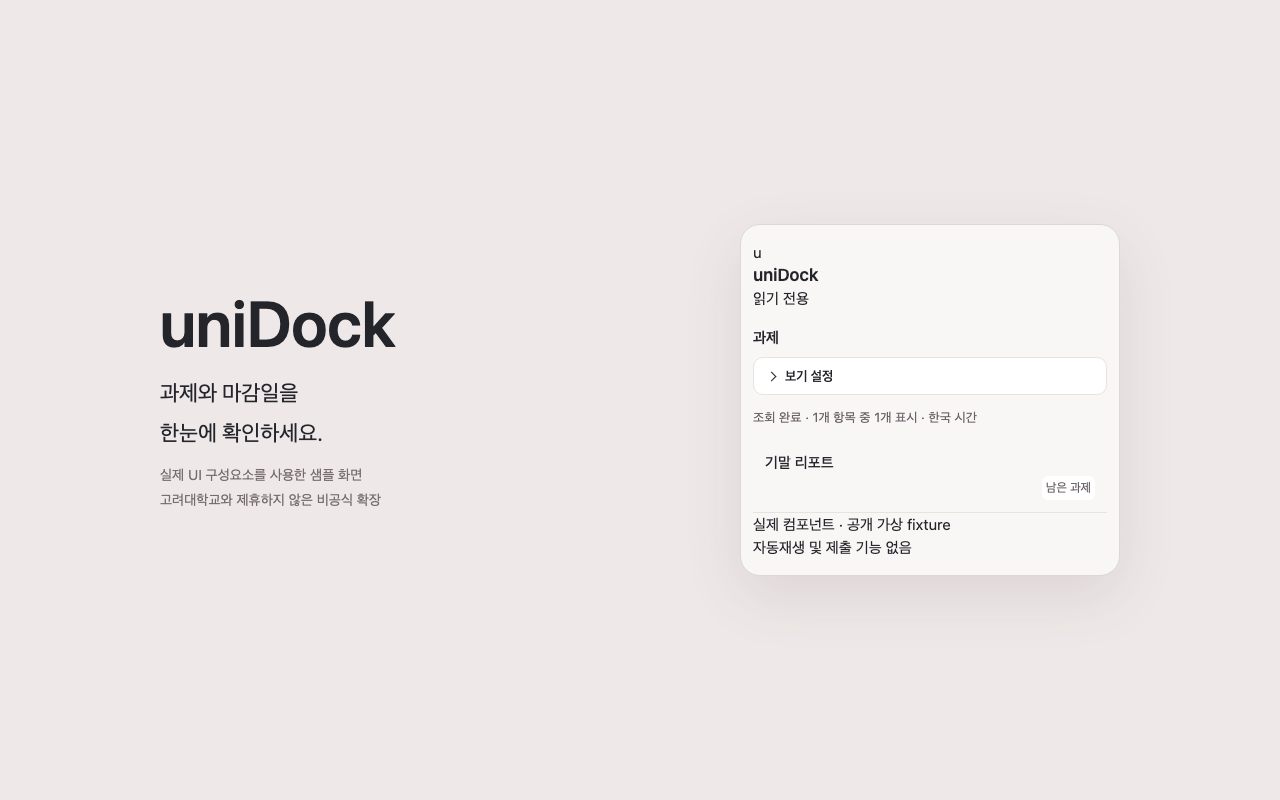
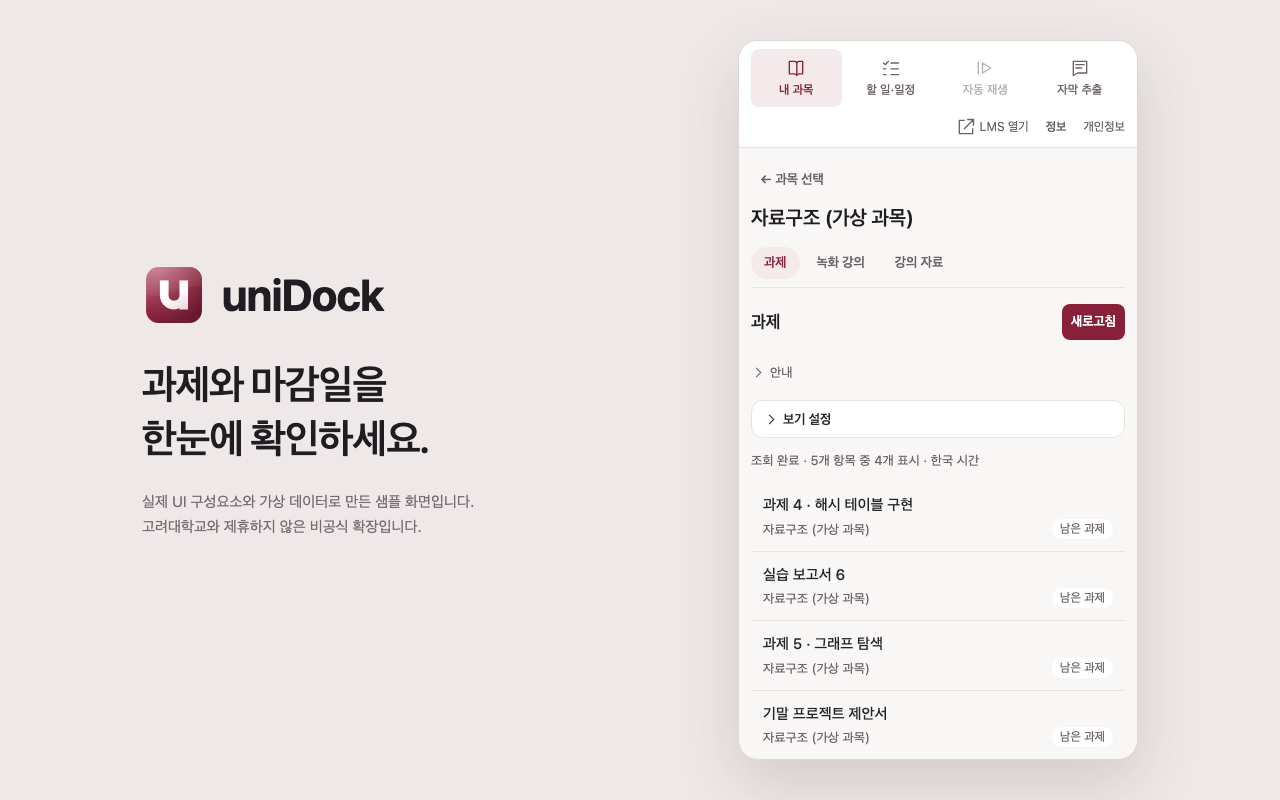
docs(store): render sample screens from the real side panel for 0.3.0
기존 샘플은 결과 목록만 단독으로 그려 상단 메뉴가 없고 로고가 글자 "u"로
보였으며, 지금 UI에 없는 "LTI 열기 가능" 표시가 남아 있었다. 실제 Rail,
과목·할 일 화면, 결과 목록과 패널 스타일에 가상 데이터를 넣어 과제, 주차학습·
게시판 녹화 강의, 일정 과제·공지 구분 세 장면을 1280×800으로 만든다. 날짜는
생성 시각 기준이며, 화면 옆에 가상 데이터 샘플임을 표시한다. LISTING·README·
배포 체크리스트의 이미지 목록을 함께 갱신했다.

diff --git a/scripts/store-render.tsx b/scripts/store-render.tsx
@@ -1,63 +1,225 @@
 import { renderToStaticMarkup } from "react-dom/server";
+import type { ReactNode } from "react";
 import fs from "node:fs";
-import { ResultList } from "../entrypoints/sidepanel/ResultList";
-import fixture from "../tests/fixtures/python-contract.json";
+import { Rail } from "../entrypoints/sidepanel/ui/Rail";
+import { CoursesScreen } from "../entrypoints/sidepanel/screens/CoursesScreen";
+import { TasksScreen } from "../entrypoints/sidepanel/screens/TasksScreen";
+import type { PanelModel } from "../entrypoints/sidepanel/screens/QueryResults";
+import type { Result } from "../src/protocol";
+
+// Store screenshots render the real side-panel components (rail, screens,
+// result lists) with the real stylesheet and public, made-up data. They are
+// samples, not LMS captures; every scene says so next to the panel.
 const css = fs.readFileSync("entrypoints/sidepanel/style.css", "utf8");
-const header = (
-  <header>
-    <span
-      className="mark"
-      style={{ backgroundImage: "url('../../public/icons/128.png')" }}
-    >
-      u
-    </span>
-    <h1>uniDock</h1>
-    <span className="badge">읽기 전용</span>
-  </header>
-);
-for (const kind of ["assignments", "recordings"] as const) {
-  const result =
-    kind === "assignments"
-      ? {
-          status: "success" as const,
-          assignments: fixture.expected.assignments,
-        }
-      : {
-          status: "success" as const,
-          recordings: [
-            {
-              module: "1주차",
-              title: "1주차 1차시",
-              type: "ExternalTool" as const,
-              source: "module" as const,
-              lmsHandle: "sample-1",
-              launchHandle: "sample-2",
-            },
-            {
-              module: "1주차",
-              title: "1주차 2차시",
-              type: "ExternalTool" as const,
-              source: "module" as const,
-              lmsHandle: "sample-3",
-              launchHandle: "sample-4",
-            },
-          ],
-        };
-  const markup = renderToStaticMarkup(
-    <main>
-      {header}
-      <h3>{kind === "assignments" ? "과제" : "녹화 강의"}</h3>
-      <ResultList result={result} onCourse={() => {}} onRecording={() => {}} />
-      <footer>
-        실제 컴포넌트 · 공개 가상 fixture
-        <br />
-        자동재생 및 제출 기능 없음
-      </footer>
-    </main>,
+const noop = () => {};
+const day = 86400000;
+// Dates relative to the render time, so chips read like a normal week.
+const at = (days: number, hour = 23, minute = 59) => {
+  const date = new Date(Date.now() + days * day);
+  date.setHours(hour, minute, 0, 0);
+  return date.toISOString();
+};
+const handle = (index: number) =>
+  `00000000-0000-4000-8000-${String(index).padStart(12, "0")}`;
+
+// Only the fields the rendered screens read; nothing here can load or open.
+function model(fields: {
+  view: PanelModel["view"];
+  state: Result;
+  course?: string;
+  tasksMode?: "todo" | "upcoming";
+}): PanelModel {
+  return {
+    course: fields.course ?? "",
+    selectedCourse: undefined,
+    view: fields.view,
+    state: fields.state,
+    tasksMode: fields.tasksMode ?? "todo",
+    start: "",
+    end: "",
+    query: { version: 1, type: fields.view },
+    isQueryValid: true,
+    recordingAction: {
+      pending: false,
+      notice: "",
+      used: new Set<string>(),
+      opened: new Set<string>(),
+    },
+    clear: noop,
+    load: async () => {},
+    openRecording: async () => {},
+    setCourse: noop,
+    setEnd: noop,
+    setStart: noop,
+    setView: noop,
+    showCourses: noop,
+  } as unknown as PanelModel;
+}
+
+const course = "자료구조 (가상 과목)";
+const assignment = (
+  title: string,
+  dueDays: number,
+  submitted = false,
+): Extract<Result, { assignments: unknown }>["assignments"][number] => ({
+  title,
+  due_at: at(dueDays),
+  remaining_candidate: !submitted && dueDays > 0,
+  unlock_at: "",
+  lock_at: "",
+  points_possible: 10,
+  published: true,
+  locked_for_user: false,
+  submission_workflow_state: submitted ? "submitted" : "unsubmitted",
+  submitted_at: submitted ? at(dueDays - 1, 20, 10) : "",
+  missing: false,
+  late: false,
+  submission_types: ["online_upload"],
+});
+const recording = (
+  index: number,
+  module: string,
+  title: string,
+  source: "module" | "board",
+) => ({
+  module,
+  title,
+  type: "ExternalTool" as const,
+  source,
+  lmsHandle: handle(index * 2),
+  launchHandle: handle(index * 2 + 1),
+});
+const upcoming = (title: string, type: string, days: number, from: string) => ({
+  title,
+  date: at(
+    days,
+    type === "announcement" ? 9 : 23,
+    type === "announcement" ? 0 : 59,
+  ),
+  type,
+  course: from,
+  submitted: false,
+  new_activity: type === "announcement",
+});
+
+const scenes: {
+  file: string;
+  headline: string;
+  section: "courses" | "tasks";
+  screen: ReactNode;
+}[] = [
+  {
+    file: "assignments",
+    headline: "과제와 마감일을<br>한눈에 확인하세요.",
+    section: "courses",
+    screen: (
+      <CoursesScreen
+        model={model({
+          course,
+          view: "ASSIGNMENTS_LIST",
+          state: {
+            status: "success",
+            assignments: [
+              assignment("과제 4 · 해시 테이블 구현", 2),
+              assignment("실습 보고서 6", 5),
+              assignment("과제 5 · 그래프 탐색", 9),
+              assignment("기말 프로젝트 제안서", 16),
+              assignment("과제 3 · 이진 탐색 트리", -4, true),
+            ],
+          },
+        })}
+      />
+    ),
+  },
+  {
+    file: "recordings",
+    headline: "주차학습과 게시판의<br>녹화 강의를 함께 찾으세요.",
+    section: "courses",
+    screen: (
+      <CoursesScreen
+        model={model({
+          course,
+          view: "RECORDINGS_LIST",
+          state: {
+            status: "success",
+            recordings: [
+              recording(1, "7주차", "7주차 1차시 · 힙과 우선순위 큐", "module"),
+              recording(2, "8주차", "8주차 1차시 · 해시 함수", "module"),
+              recording(
+                3,
+                "게시판 · 강의자료실",
+                "10월 13일 수업 녹화본",
+                "board",
+              ),
+              recording(4, "게시판 · 강의자료실", "보강 녹화", "board"),
+            ],
+          },
+        })}
+      />
+    ),
+  },
+  {
+    file: "schedule",
+    headline: "일정을 과제·공지로<br>나눠서 보세요.",
+    section: "tasks",
+    screen: (
+      <TasksScreen
+        model={model({
+          view: "UPCOMING_LIST",
+          tasksMode: "upcoming",
+          state: {
+            status: "success",
+            upcoming: [
+              upcoming("휴강 및 보강 안내", "announcement", 1, "자료구조"),
+              upcoming(
+                "과제 4 · 해시 테이블 구현",
+                "assignment",
+                2,
+                "자료구조",
+              ),
+              upcoming("퀴즈 3", "quiz", 3, "확률과 통계"),
+              upcoming("중간고사 성적 공지", "announcement", 4, "선형대수"),
+              upcoming(
+                "토론 · 정렬 알고리즘 비교",
+                "discussion_topic",
+                6,
+                "자료구조",
+              ),
+              upcoming("학과 세미나", "calendar_event", 8, "선형대수"),
+            ],
+          },
+        })}
+      />
+    ),
+  },
+];
+
+for (const scene of scenes) {
+  const panel = renderToStaticMarkup(
+    <div className="store-panel">
+      <Rail
+        section={scene.section}
+        onSelect={noop}
+        onInfo={noop}
+        playbackAvailable={false}
+      />
+      <main>{scene.screen}</main>
+    </div>,
   );
   fs.writeFileSync(
-    `store/assets/${kind}.html`,
-    `<!doctype html><html lang="ko"><meta charset="utf-8"><style>${css}body{width:1280px;height:800px;display:flex;align-items:center;justify-content:center;gap:100px;background:#eee9e8}aside{width:480px}aside h1{font-size:64px}aside p{font-size:22px;line-height:1.8}main{width:380px;max-height:750px;overflow:hidden;background:#f8f7f5;border:1px solid #ded7d8;border-radius:20px;margin:0;box-shadow:0 20px 60px #4f29351c}</style><aside><h1>uniDock</h1><p>${kind === "assignments" ? "과제와 마감일을<br>한눈에 확인하세요." : "녹화 강의를 찾고<br>LMS에서 직접 여세요."}</p><p style="font-size:14px;color:#766c70">실제 UI 구성요소를 사용한 샘플 화면<br>고려대학교와 제휴하지 않은 비공식 확장</p></aside>${markup}</html>`,
+    `store/assets/${scene.file}.html`,
+    `<!doctype html><html lang="ko"><meta charset="utf-8"><style>${css}
+html,body{width:1280px;height:800px;overflow:hidden}
+body{display:flex;align-items:center;justify-content:center;gap:96px;background:#eee9e8;font-family:var(--font);color:var(--text, #1f1d22)}
+aside{width:500px}
+aside .brand{display:flex;align-items:center;gap:16px;margin-bottom:28px}
+aside .brand img{width:64px;height:64px}
+aside .brand span{font-size:44px;font-weight:700;letter-spacing:-0.02em}
+aside h1{font-size:40px;line-height:1.35;margin:0 0 24px;letter-spacing:-0.02em}
+aside p{font-size:15px;line-height:1.7;color:#766c70;margin:0}
+.store-panel{width:400px;height:720px;overflow:hidden;background:var(--page);border:1px solid #ded7d8;border-radius:20px;box-shadow:0 24px 64px #4f29352a}
+.store-panel main{padding-bottom:0}
+</style><aside><div class="brand"><img src="../../public/icons/128.png" alt=""><span>uniDock</span></div><h1>${scene.headline}</h1><p>실제 UI 구성요소와 가상 데이터로 만든 샘플 화면입니다.<br>고려대학교와 제휴하지 않은 비공식 확장입니다.</p></aside>${panel}</html>`,
   );
 }
 

diff --git a/documentation/store/LISTING.md b/documentation/store/LISTING.md
@@ -36,8 +36,8 @@ LMS에서 평소처럼 로그인하고 탭을 선택한 뒤 uniDock에서 조회
 
 - 확장 아이콘: public/icons/128.png (128×128 PNG, 자체 디자인)
 - 소형 홍보 이미지: store/assets/promo.png (440×280)
-- 샘플 화면: store/assets/assignments.png, recordings.png (1280×800)
-- 화면은 실제 ResultList 컴포넌트에 공개 가상 fixture를 넣어 제작한 설명용 샘플이며 실계정 캡처가 아닙니다. 이미지 자체에도 샘플이라고 표시합니다. 실제 Chrome Side Panel 동작을 보여주는 민감정보 없는 최종 캡처와 비교한 후 제출하세요.
+- 샘플 화면: store/assets/assignments.png(과제), recordings.png(주차학습·게시판 녹화 강의), schedule.png(일정 과제·공지 구분) (1280×800)
+- 화면은 실제 사이드 패널 구성요소(상단 메뉴, 과목·할 일 화면, 결과 목록)와 스타일에 가상 데이터를 넣어 제작한 설명용 샘플이며 실계정 캡처가 아닙니다. 이미지 자체에도 샘플이라고 표시합니다. 실제 Chrome Side Panel 동작을 보여주는 민감정보 없는 최종 캡처와 비교한 후 제출하세요.
 
 ## 단일 목적
 
